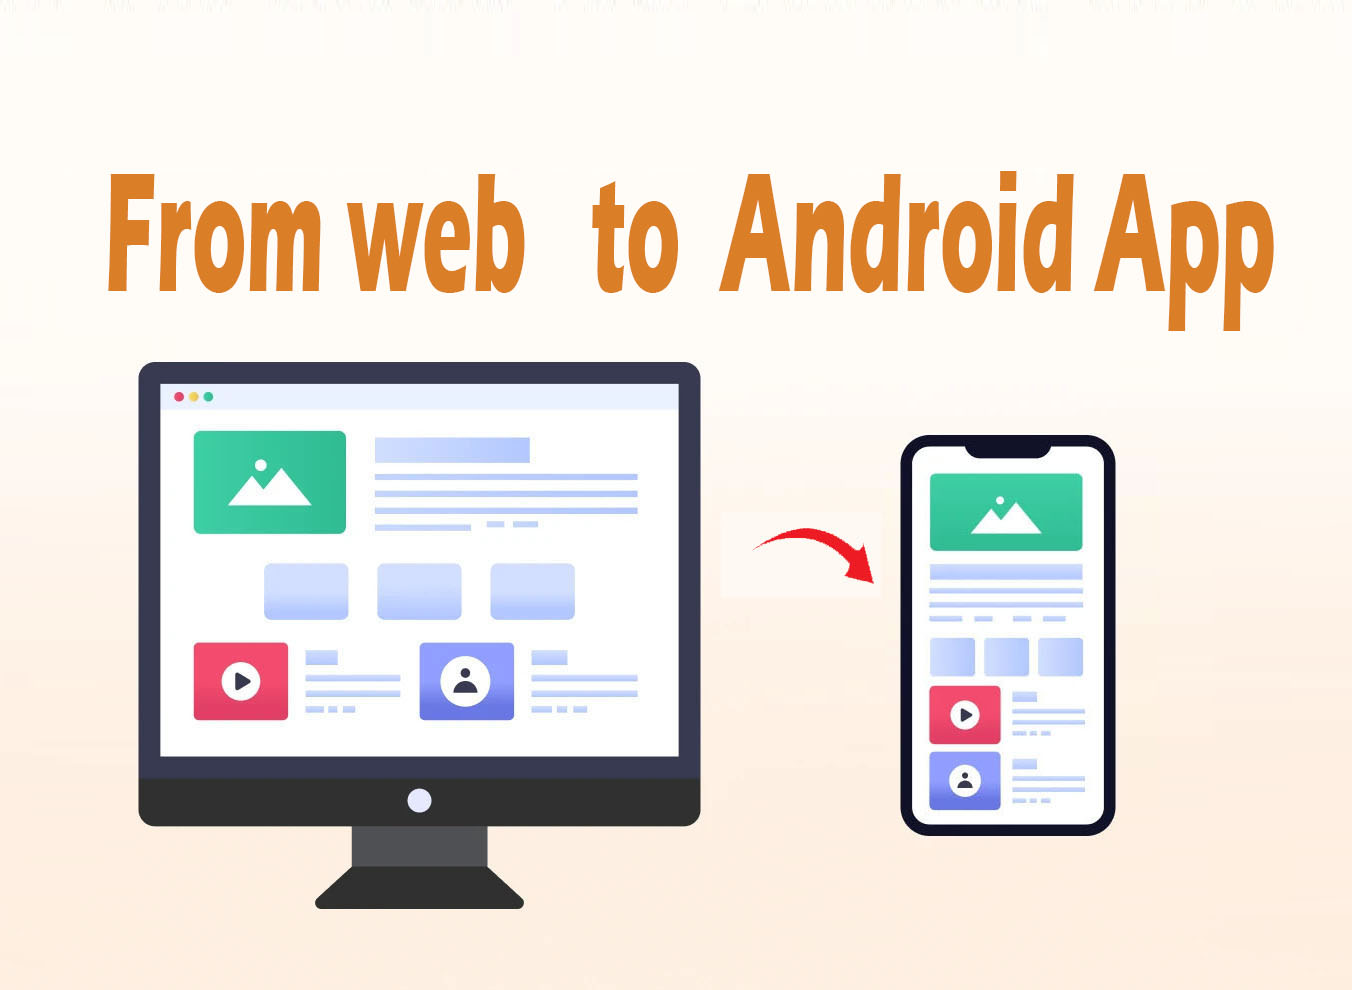
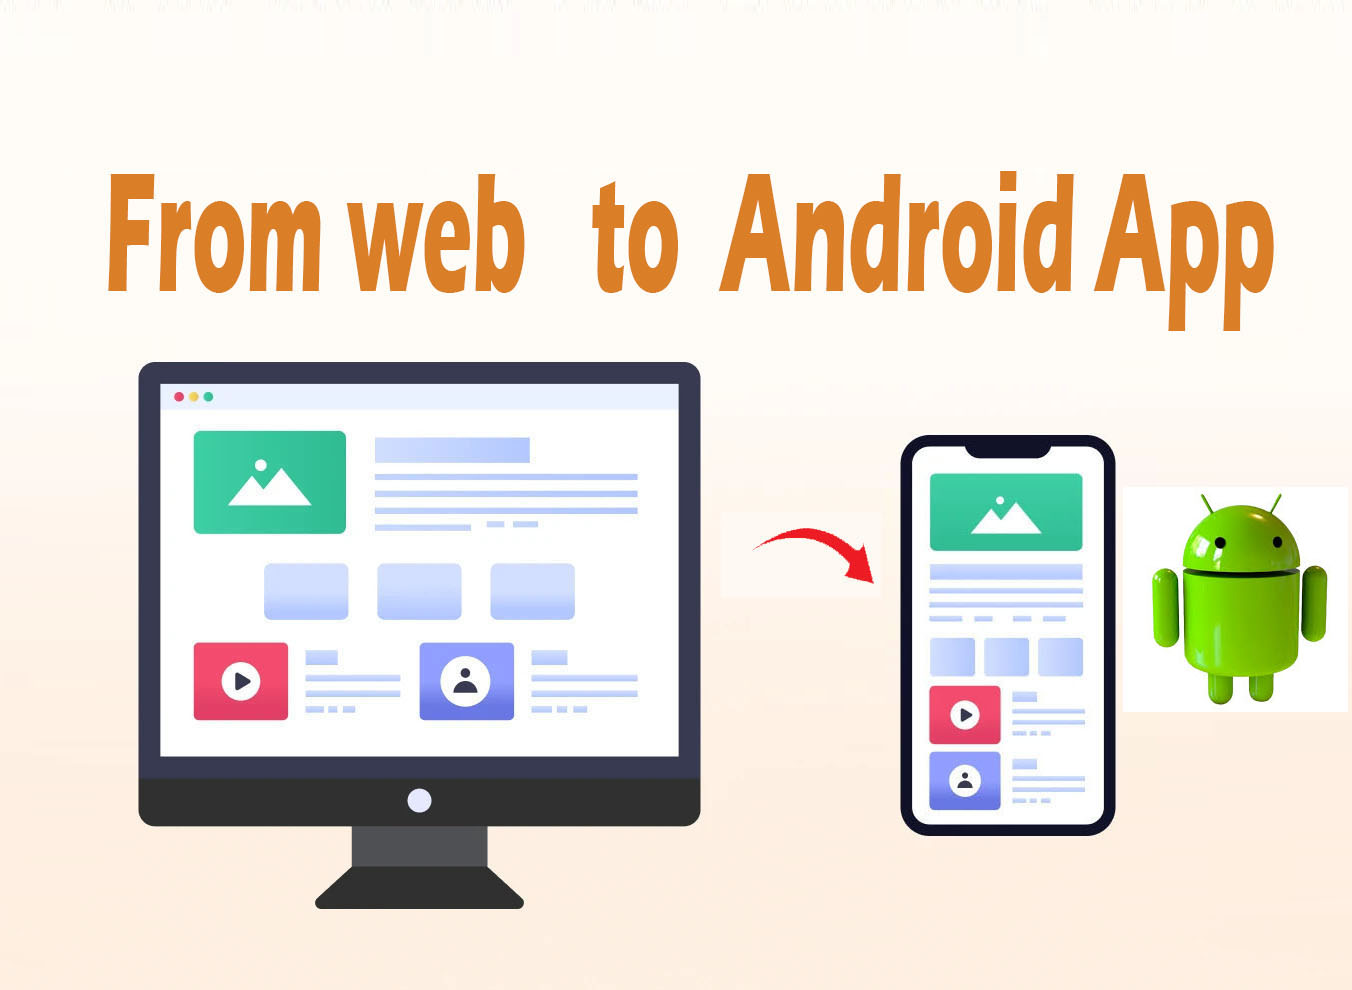
Add files via upload

Changed region(s): [[0.8077, 0.4848, 1.0, 0.7273]]

diff --git a/index.html b/index.html
@@ -24,8 +24,8 @@
 <section class="hero">
     <div class="container">
         <div class="hero-content">
-            <h1 class="hero-title">We create an Android app for your business.</h1>
-            <p class="hero-subtitle">Modernize your business and take it to the next level with a fully functional, high-performance Android application..</p>
+            <h1 class="hero-title">We create a webpage and Android app for your business.</h1>
+            <p class="hero-subtitle">Pizza restaurant and other food delivery businesses, doctors who see patients by appointment, taxis, and shipping companies. Modernize your business by taking it to the next level with an online presence and an Android app that provides better service to your customers.</p>
         </div>
         <div class="hero-visual">
             <img src="fotos/mobile-mockup-fitness1.png" alt="Professional Android App Example" class="hero-app-image">
@@ -42,7 +42,7 @@
             <p class="showcase-subtitle">For only $65 USD we create an Android application. See how we transform your online presence into a Android mobile experience. Plus, expert WordPress maintenance to keep your site running smoothly.</p>
 
             <h2 class="showcase-title">Don´t you have a website?</h2>   
-            <p class="showcase-subtitle">For only $120 USD we create a website for your business, and transform it into an Android application. Modernize your operations, enhance customer engagement, and take your business to the next level with a professional app designed to deliver results.</p>
+            <p class="showcase-subtitle">For only $90 USD we create a website for your business, and transform it into an Android application. Modernize your operations, enhance customer engagement, and take your business to the next level with a professional app designed to deliver results.</p>
             
             <div class="showcase-image">
                 <img src="fotos/Web-App-small.jpg" alt="Website to Android App Conversion" class="featured-app">
@@ -51,8 +51,7 @@
         </div>
     </div>
 </section>
-    
-     
+         
     <!-- Services Section -->
 <section class="services">
     <div class="container">
@@ -66,7 +65,7 @@
                 
                 <!-- PRECIO DE CREACION DE SITIO WEB -->
                 <div class="pricing-badge app-price">
-                    <span class="price-main">$120 USD</span>
+                    <span class="price-main">$90 USD</span>
                     <span class="price-sub">one-time creation fee</span>
                 </div>
                 
@@ -86,37 +85,7 @@
                     <li> Custom-built development</li>
                 </ul>
             </div>
-            <!-- Service 2: WordPress Maintenance -->
-            <div class="service-card">
-                <div class="service-icon">
-                    🛠️
-                </div>
-                <h3>Website WordPress Care</h3>
-                
-                <!-- PRECIO MANTENIMIENTO -->
-                <div class="pricing-badge maintenance-price">
-                    <span class="price-main">$30 USD</span>
-                    <span class="price-sub">per month</span>
-                </div>
-                
-                <p>Comprehensive Website maintenance and support to ensure your website remains secure, updated, and performing at its best.</p>
-                
-                <div class="value-proposition">
-                    <strong>Complete Peace of Mind</strong>
-                    <p>All-inclusive care.</p>
-                </div>
-                
-                <ul class="service-features">
-                    <li> Regular Updates & Security Patches</li>
-                    <li> Weekly Backups & Monitoring</li>
-                    <li> Performance Optimization</li>
-                    <li> 24/7 Security Monitoring</li>
-                    <li> Uptime Checks & Reporting</li>
-                    <li> Emergency Support on website crash</li>
-                </ul>
-            </div>
-
-            <!-- Service 3: Android App Conversion -->
+            <!-- Service 2: Android App Conversion -->
             <div class="service-card">
                 <div class="service-icon">
                     🤖
@@ -132,7 +101,7 @@
                 <p>Already have a website? We transform your website into an Android application with superior performance and full access to device features.</p>
                 
                 <div class="value-proposition">
-                    <strong>Maintenance $20 month</strong>
+                    <strong>Maintenance $30 month</strong>
                     <p>Maintenance of an Android application ensures its stability and compatibility. Failure to do so could compromise its functionality and affect the user experience.</p>
                 </div>
                 
@@ -145,8 +114,36 @@
                     
                 </ul>
             </div>
-
-            
+            <!-- Service 3: Webpage Maintenance -->
+            <div class="service-card">
+                <div class="service-icon">
+                    🛠️
+                </div>
+                <h3>Website Maintenance</h3>
+                
+                <!-- Maintenanice Price -->
+                <div class="pricing-badge maintenance-price">
+                    <span class="price-main">$30 USD</span>
+                    <span class="price-sub">per month</span>
+                </div>
+                
+                <p>Comprehensive Website and app maintenance and support to ensure your website remains secure, updated, and performing at its best.</p>
+                
+                <div class="value-proposition">
+                    <strong>Complete Peace of Mind</strong>
+                    <p>All-inclusive care.</p>
+                </div>
+                
+                <ul class="service-features">
+                    <li> Regular Updates & Security Patches</li>
+                    <li> Weekly Backups & Monitoring</li>
+                    <li> Performance Optimization</li>
+                    <li> 24/7 Security Monitoring</li>
+                    <li> Uptime Checks & Reporting</li>
+                    <li> Emergency Support on website crash</li>
+                </ul>
+            </div>
+                        
         </div>
     </div>
 </section>
@@ -220,7 +217,7 @@
     </section>
 
     
-    <!-- Form Section -->
+    <!-- Form Section 
     <section class="form-section">
         <div class="container">
             <div class="form-wrapper">
@@ -260,7 +257,7 @@
                 </form>
             </div>
         </div>
-    </section>
+    </section> -->
 
     <script src="script.js"></script>
 